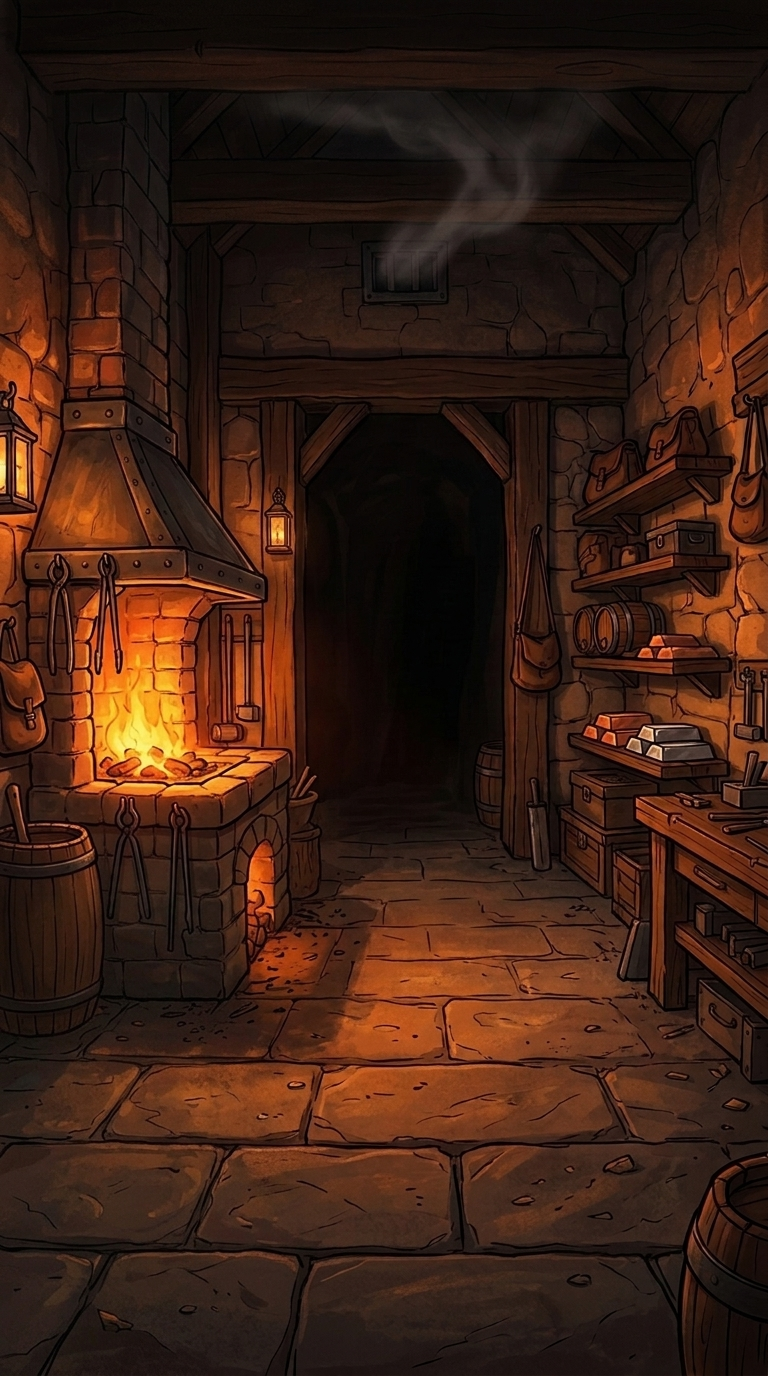
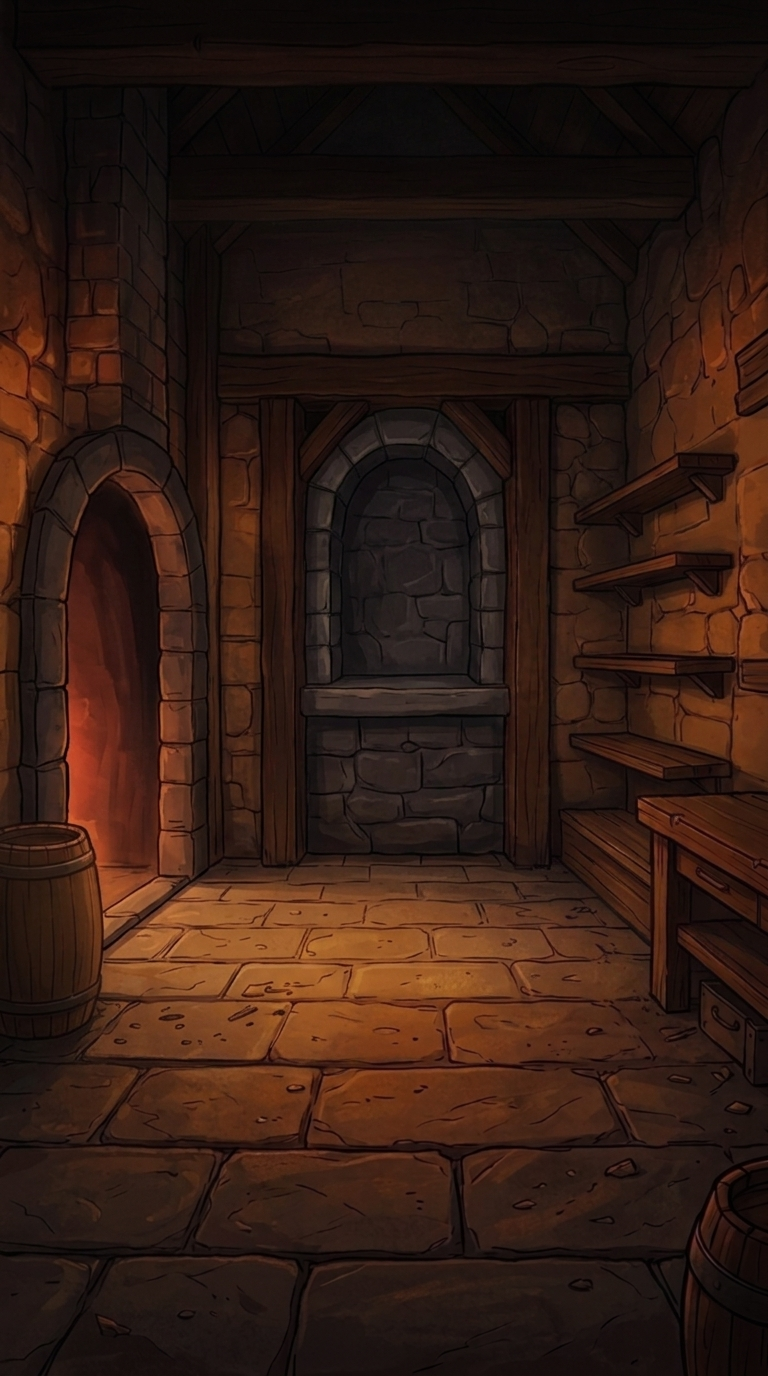
Новый фон: арка слева для ленты, ниша под пресс; лента едет вправо плавно
Claude-Session: https://claude.ai/code/session_01RrGCNe7aEBrR8ukjQyBXho

diff --git a/games/mint/index.html b/games/mint/index.html
@@ -23,7 +23,7 @@ html,body{height:100%;margin:0;background:var(--bg);overflow:hidden;touch-action
 <canvas id="c"></canvas>
 <button id="fs" aria-label="На весь экран">⛶</button>
 <div id="panel" hidden></div>
-<script src="../../core/live.js?v=11"></script>
-<script src="game.js?v=11"></script>
+<script src="../../core/live.js?v=12"></script>
+<script src="game.js?v=12"></script>
 </body>
 </html>
